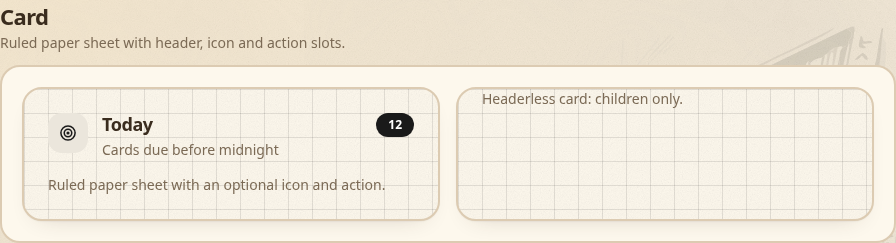
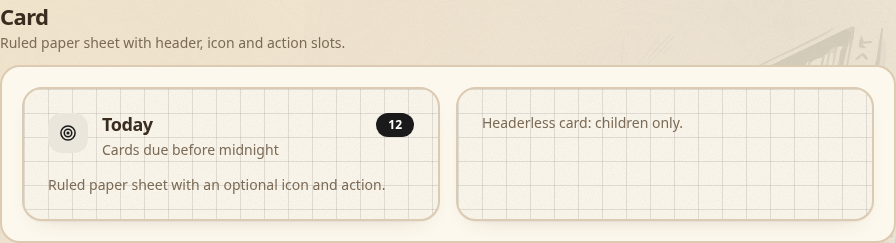
Update docs page and make record script.

Changed region(s): [[0.5312, 0.4897, 0.7812, 0.5473], [0.5312, 0.3745, 0.7812, 0.4321]]

diff --git a/docs/src/App.svelte b/docs/src/App.svelte
@@ -187,12 +187,15 @@
           items={[
             { value: "light", label: "Light" },
             { value: "dark", label: "Dark" },
-            { value: "system", label: "System" }
+            { value: "system", label: "System" },
+            { value: "contrast", label: "Contrast" }
           ]}
-          value={theme}
-          onpick={(v) => (theme = v as Theme)}
+          value={contrast ? "contrast" : theme}
+          onpick={(v) => {
+            contrast = v === "contrast";
+            if (!contrast) theme = v as Theme;
+          }}
         />
-        <Chip active={contrast} size="sm" onclick={() => (contrast = !contrast)}>Contrast</Chip>
         <Chip active={sound} size="sm" onclick={() => (sound = !sound)}>Sound</Chip>
         <Button
           variant="outline"

diff --git a/src/components/Card.svelte b/src/components/Card.svelte
@@ -18,10 +18,12 @@
     children: Snippet;
     action?: Snippet;
   } = $props();
+
+  const hasHeader = $derived(title !== "" || action !== undefined);
 </script>
 
 <section class="sheet ruled rounded-2xl border-2 border-border bg-surface {className}">
-  {#if title !== "" || action}
+  {#if hasHeader}
     <header class="flex flex-wrap items-start justify-between gap-4 px-5 pt-5 pb-4 sm:px-6 sm:pt-6">
       <div class="flex min-w-0 items-start gap-3.5">
         {#if icon}
@@ -43,7 +45,7 @@
       {/if}
     </header>
   {/if}
-  <div class="px-5 pb-5 sm:px-6 sm:pb-6 {contentClass}">
+  <div class="px-5 pb-5 sm:px-6 sm:pb-6 {hasHeader ? '' : 'pt-5 sm:pt-6'} {contentClass}">
     {@render children()}
   </div>
 </section>

diff --git a/src/theme.css b/src/theme.css
@@ -464,9 +464,16 @@ dialog::backdrop {
 .tile-grid {
   display: grid;
   grid-template-columns: repeat(auto-fill, minmax(var(--tile-min, 4.25rem), 1fr));
+  gap: var(--tile-gap, 0.5rem);
 }
 
+/* Tiles fill their cell: children with their own fixed size (a Chip is
+   min-w-13 h-13) would otherwise sit small in a wide cell and leave the row
+   ragged on narrow screens. */
 .tile-grid > * {
+  width: 100%;
+  height: auto;
+  min-width: 0;
   aspect-ratio: var(--tile-ratio, 1);
   min-height: fit-content;
 }
